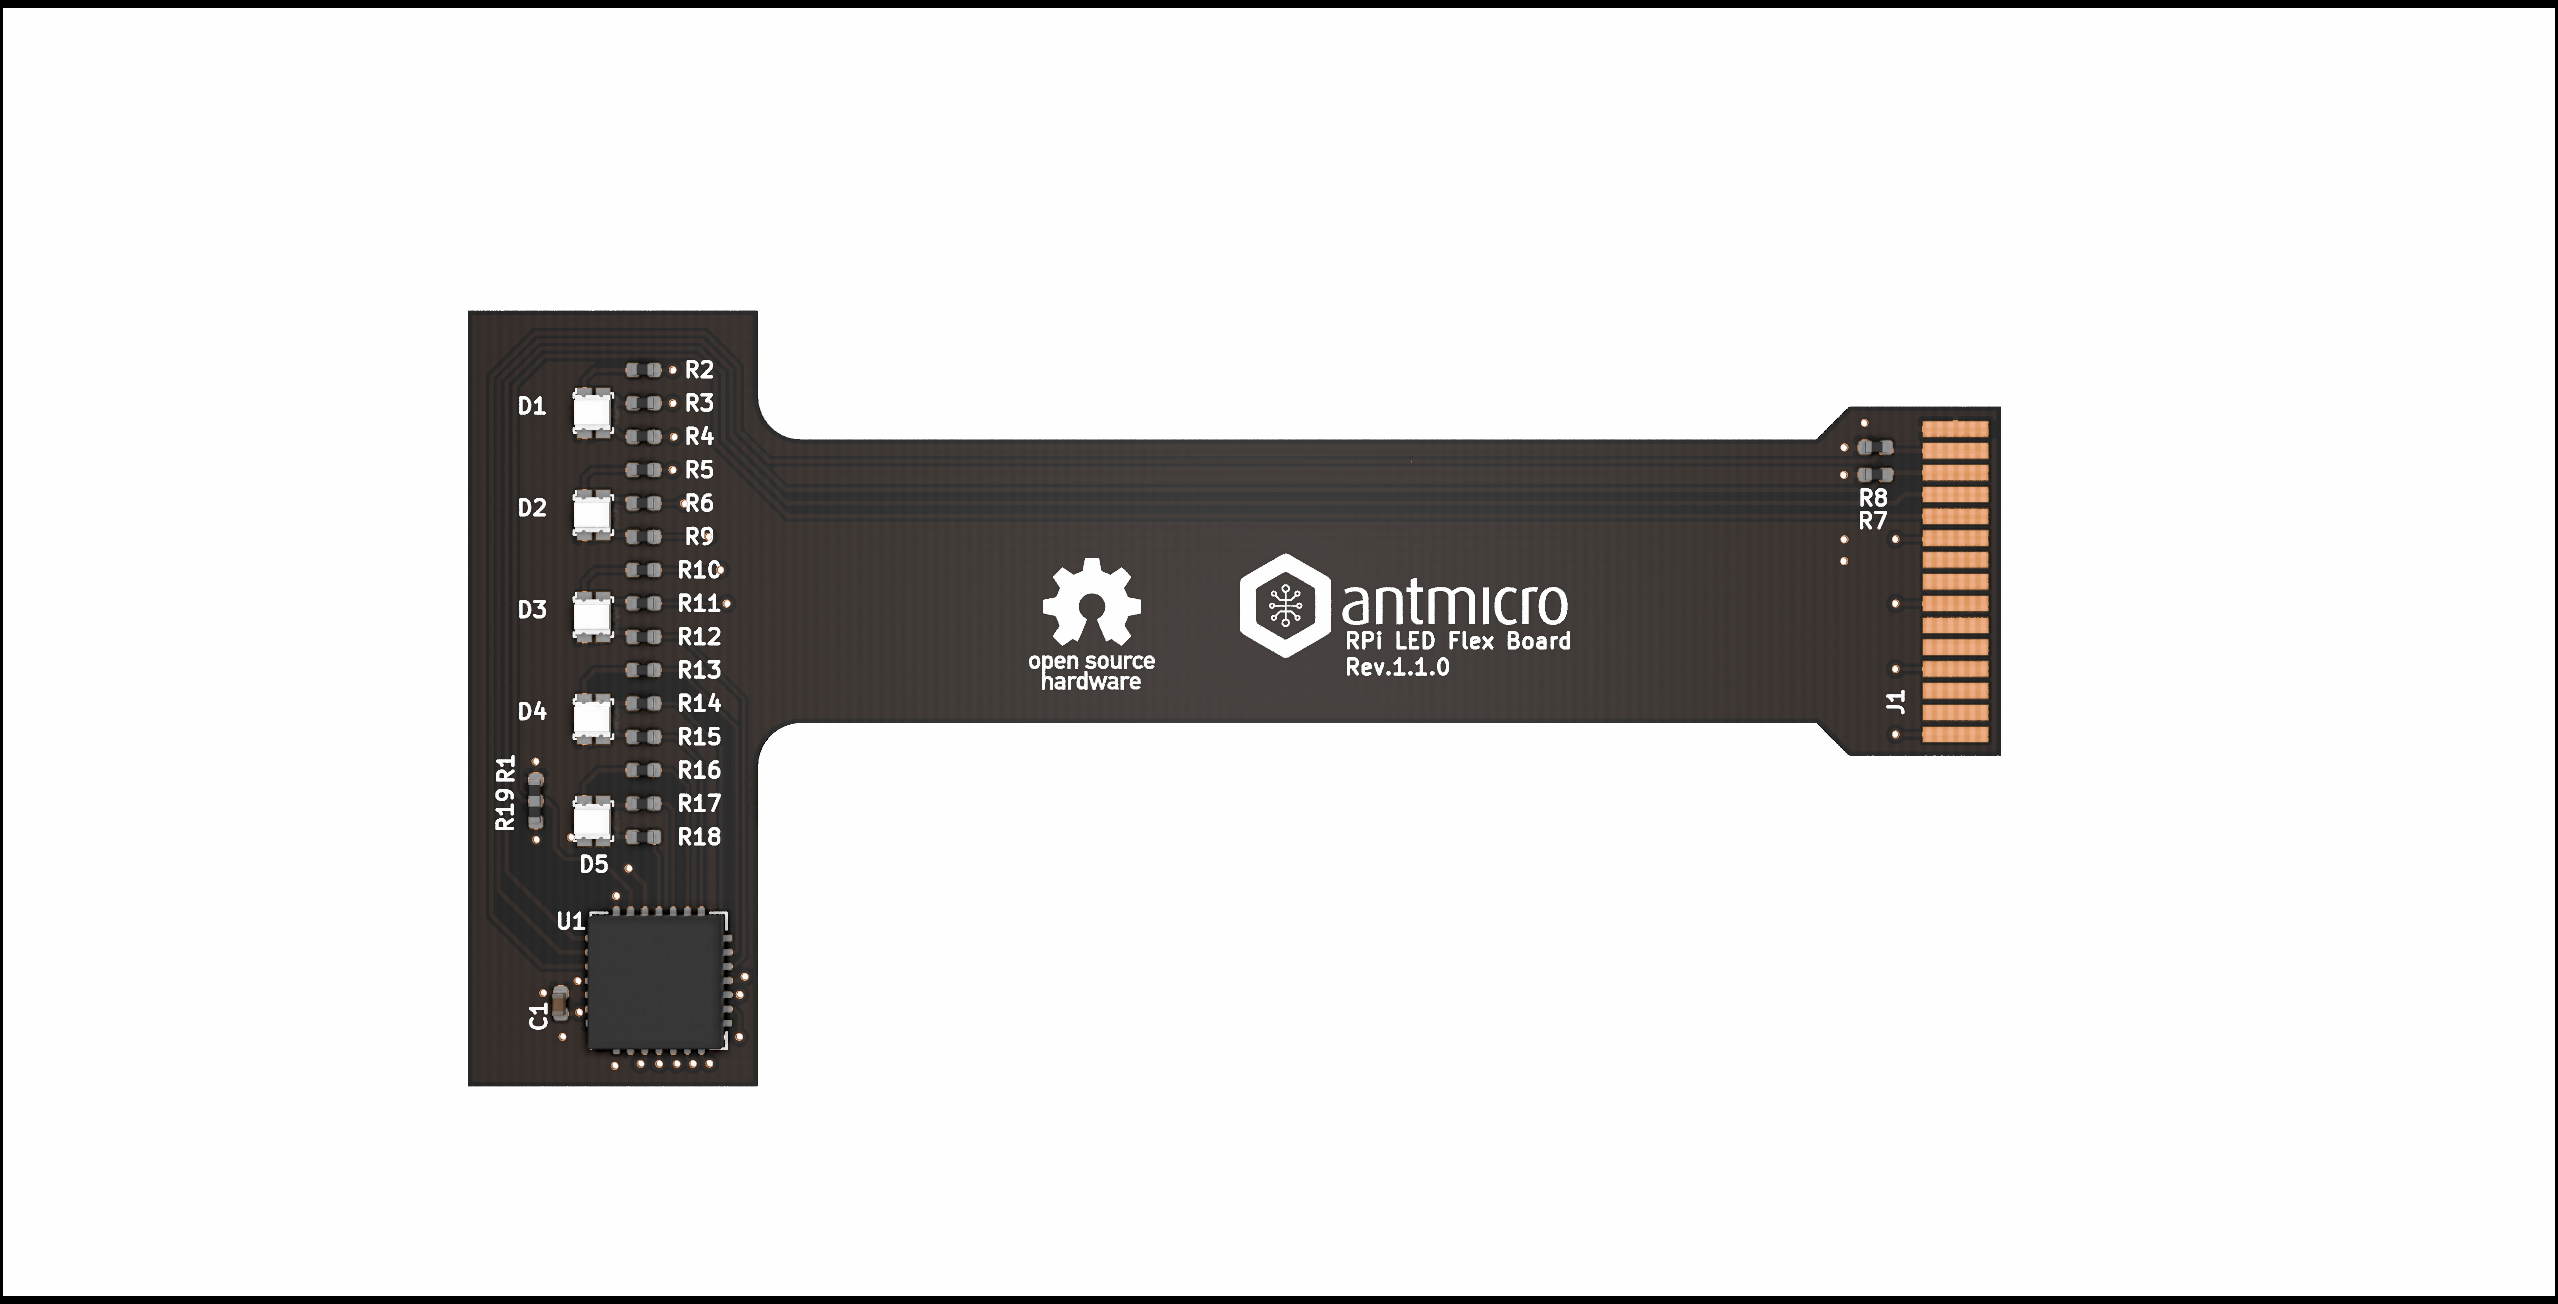
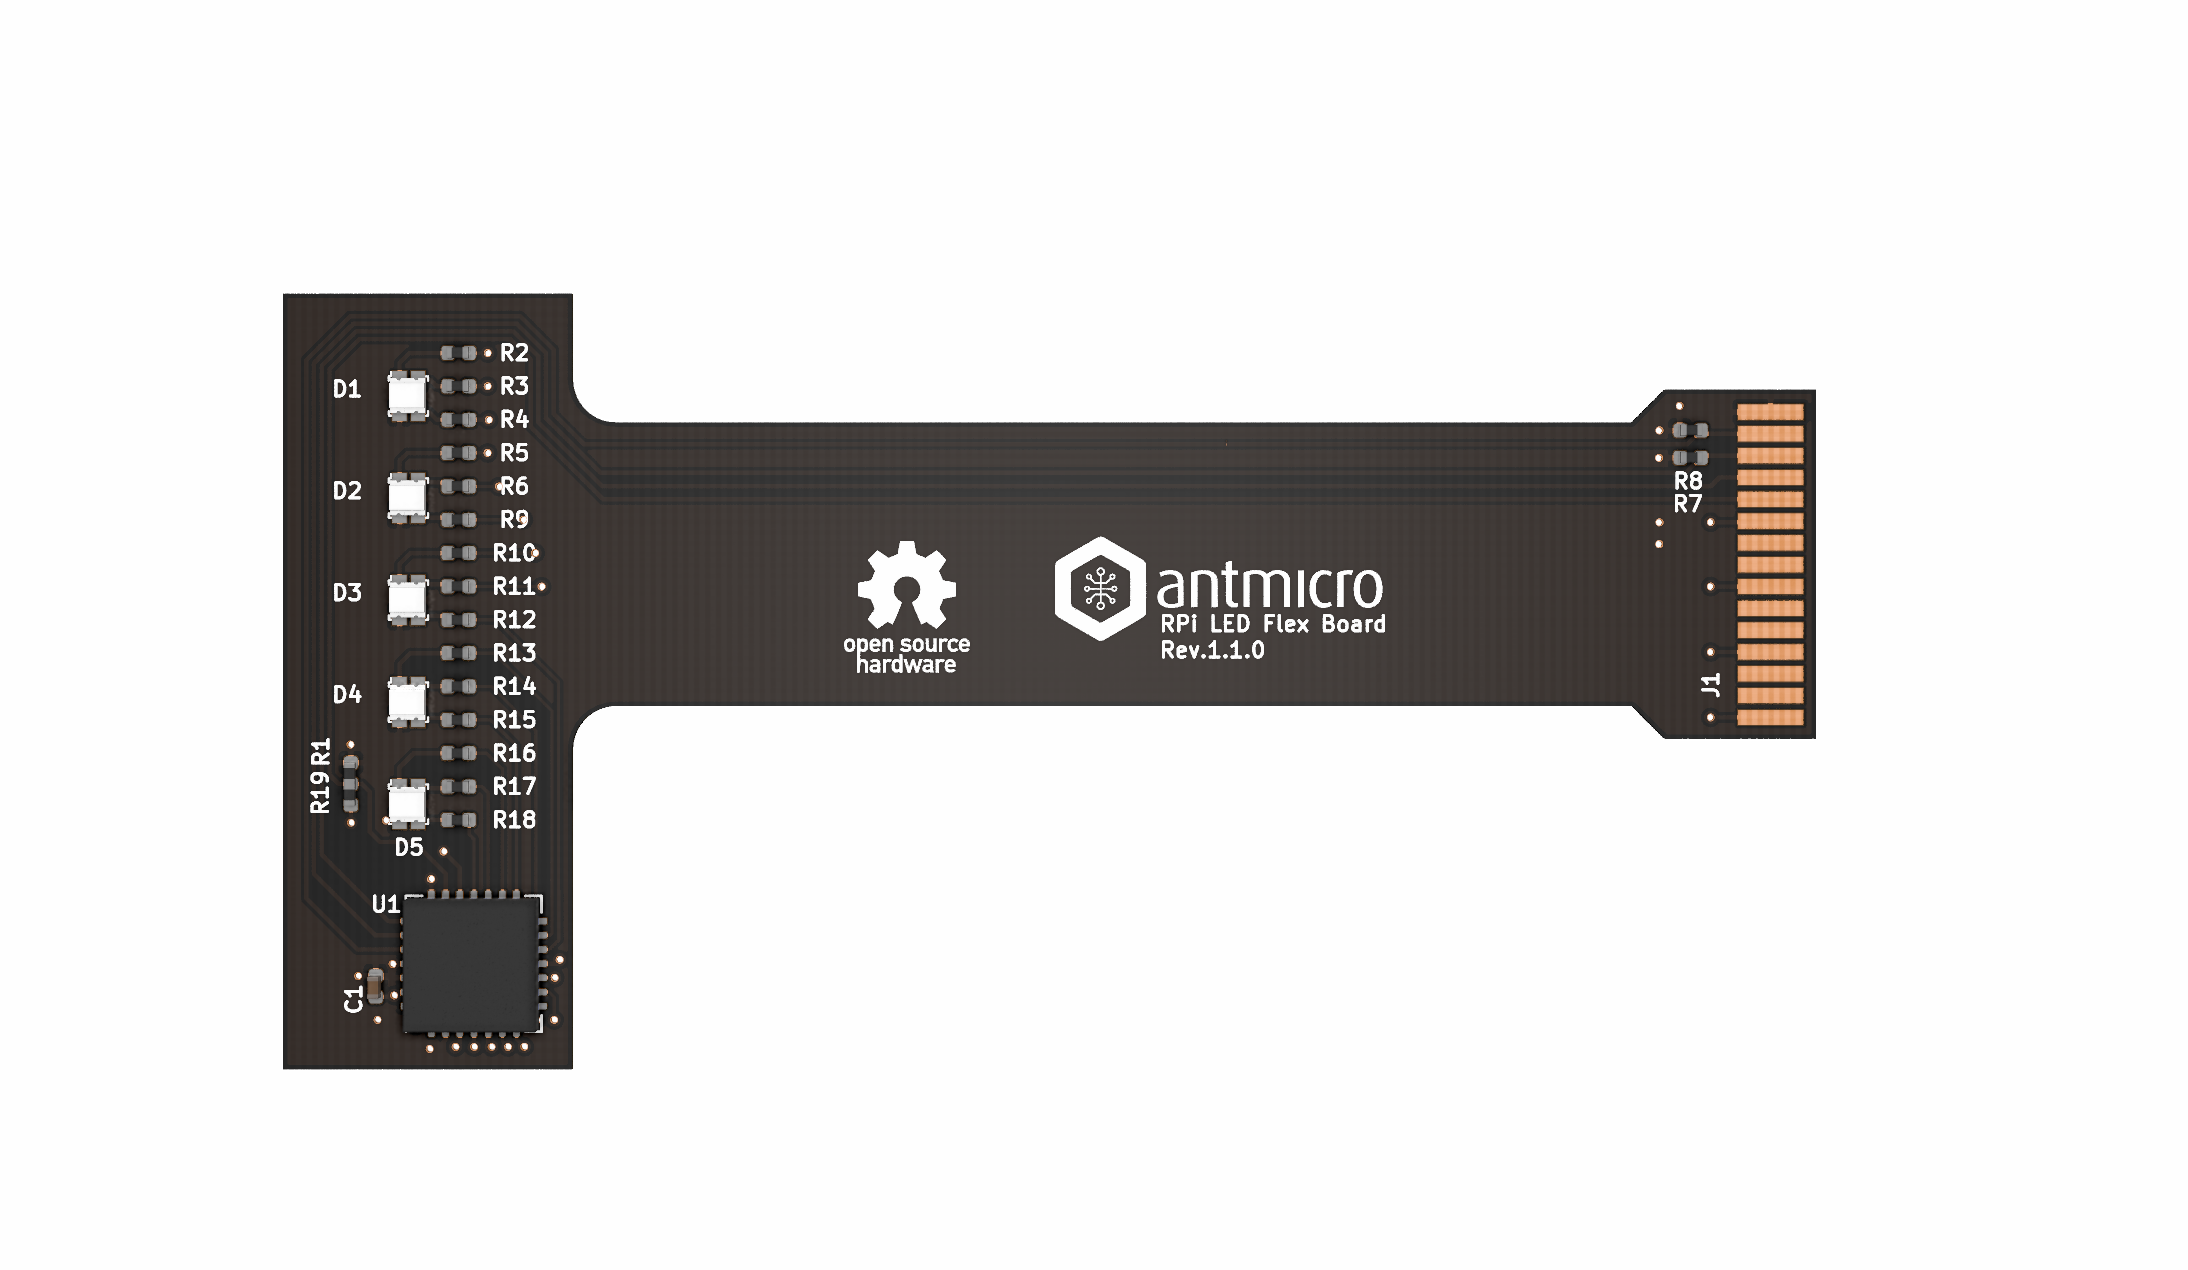
README: add link to the GPIO expander

Changed region(s): [[0.1243, 0.215, 0.8391, 0.8598], [0.0, 0.0, 1.0, 1.0], [0.3729, 0.4299, 0.6527, 0.5528]]

diff --git a/README.rst b/README.rst
@@ -4,13 +4,13 @@ Raspberry Pi LED Flex Board
 
 Copyright (c) 2022 `Antmicro <https://www.antmicro.com>`_
 
-.. figure:: img/rpi-led-flex-board-top-ray.png
+.. figure:: img/rpi-led-flex-board.png
 
 Overview
 --------
 
 This repository contains open hardware design files of the LED flexible PCB designed for Raspberry Pi.
-It includes a GPIO expander which drives five RGB LEDs. 
+It includes a `PCA9685BS <https://www.nxp.com/products/power-management/lighting-driver-and-controller-ics/ic-led-controllers/16-channel-12-bit-pwm-fm-plus-ic-bus-led-controller:PCA9685>`_ GPIO expander which drives five RGB LEDs. 
 The GPIO expander is connected to the Raspberry PI over an I2C interface exposed on the camera connector.
 This board has been developed and tested with Raspberry Pi 4B.
 It has been developed as a part of a compute cluster and fits mechanically in the Open Hardware Raspberry Pi enclosure.
@@ -26,7 +26,7 @@ The remaining files are stored in the following directories:
 * ``lib`` - contains the component libraries
 * ``img`` - contains graphics for this README
 
-Key Features
+Key features
 ------------
 * 5 x RGB LEDs
 * Independent PWM control of the light intensity of each RGB channel in each LED
